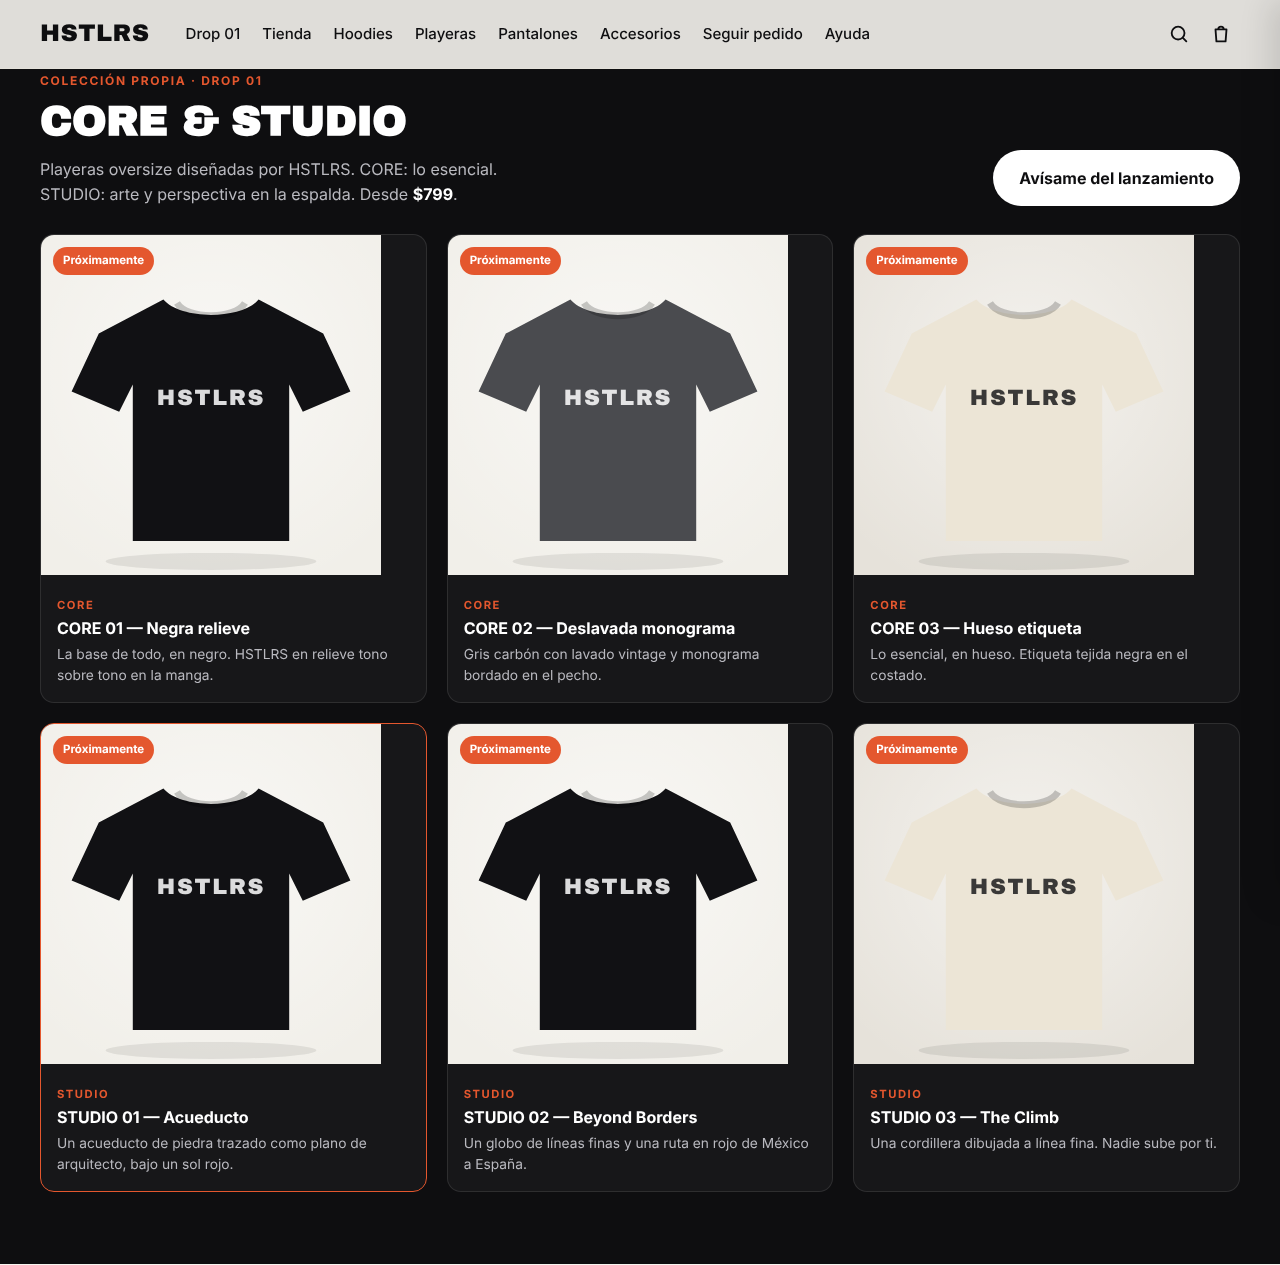
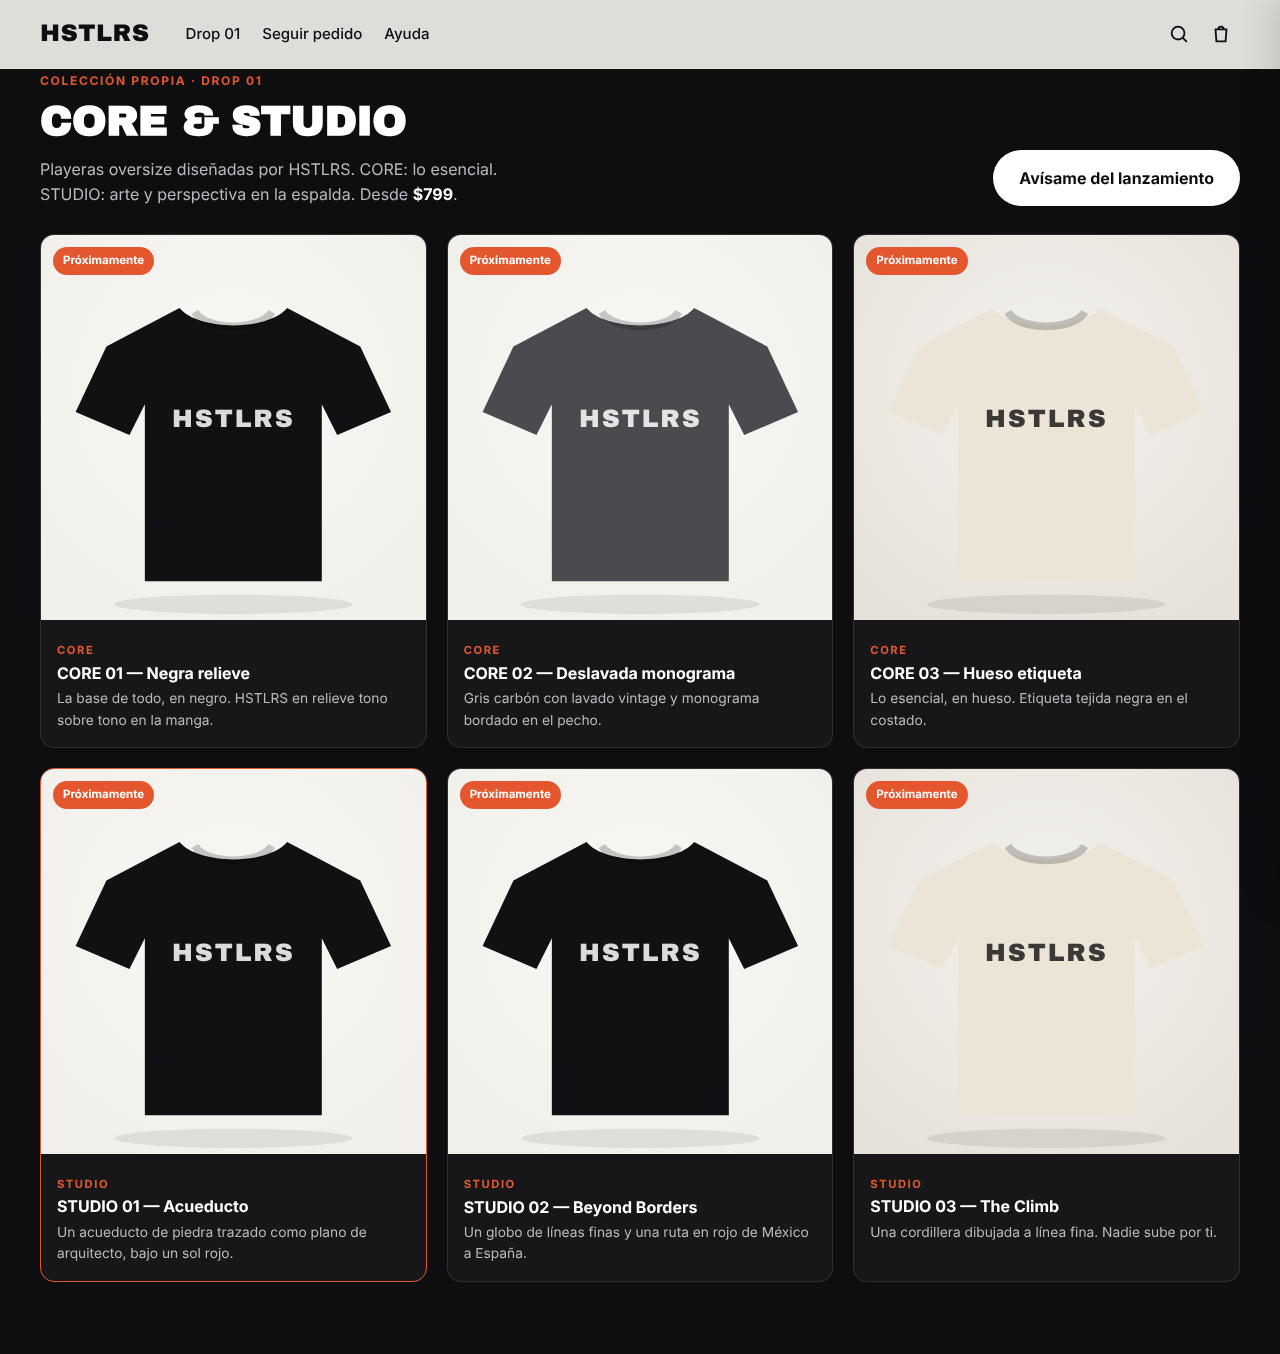
Ajustar la web al estado actual de Shopify
Oculta los productos archivados, usa el Drop 01 como portada, apunta al
dominio hsltrs.myshopify.com y usa el email de contacto de la tienda.

Claude-Session: https://claude.ai/code/session_013DNV1jFrcSM7ktCTz4AAyr

diff --git a/assets/js/products.js b/assets/js/products.js
@@ -16,6 +16,7 @@
 window.PRODUCTS = [
   {
     id: "hoodie-hustle-oversize",
+    archived: true, // Archivado en Shopify el 04/11/2026. Quita esta línea si lo reactivas.
     name: "Hoodie Hustle Oversize",
     category: "hoodies",
     price: 899,
@@ -48,6 +49,7 @@ window.PRODUCTS = [
   },
   {
     id: "hoodie-zip-grind",
+    archived: true, // Archivado en Shopify el 04/11/2026. Quita esta línea si lo reactivas.
     name: "Hoodie Zip Grind",
     category: "hoodies",
     price: 999,
@@ -73,6 +75,7 @@ window.PRODUCTS = [
   },
   {
     id: "tee-basic-heavy",
+    archived: true, // Archivado en Shopify el 04/11/2026. Quita esta línea si lo reactivas.
     name: "Camiseta Heavy Basic",
     category: "camisetas",
     price: 449,
@@ -107,6 +110,7 @@ window.PRODUCTS = [
   },
   {
     id: "tee-no-days-off",
+    archived: true, // Archivado en Shopify el 04/11/2026. Quita esta línea si lo reactivas.
     name: "Camiseta No Days Off",
     category: "camisetas",
     price: 529,
@@ -131,6 +135,7 @@ window.PRODUCTS = [
   },
   {
     id: "tee-longsleeve-core",
+    archived: true, // Archivado en Shopify el 04/11/2026. Quita esta línea si lo reactivas.
     name: "Manga Larga Core",
     category: "camisetas",
     price: 599,
@@ -155,6 +160,7 @@ window.PRODUCTS = [
   },
   {
     id: "pants-cargo-urban",
+    archived: true, // Archivado en Shopify el 04/11/2026. Quita esta línea si lo reactivas.
     name: "Cargo Urban",
     category: "pantalones",
     price: 1099,
@@ -180,6 +186,7 @@ window.PRODUCTS = [
   },
   {
     id: "pants-jogger-fleece",
+    archived: true, // Archivado en Shopify el 04/11/2026. Quita esta línea si lo reactivas.
     name: "Jogger Fleece",
     category: "pantalones",
     price: 799,
@@ -210,6 +217,7 @@ window.PRODUCTS = [
   },
   {
     id: "cap-dad-logo",
+    archived: true, // Archivado en Shopify el 04/11/2026. Quita esta línea si lo reactivas.
     name: "Gorra Dad Logo",
     category: "accesorios",
     price: 399,
@@ -229,6 +237,7 @@ window.PRODUCTS = [
   },
   {
     id: "beanie-rib",
+    archived: true, // Archivado en Shopify el 04/11/2026. Quita esta línea si lo reactivas.
     name: "Gorro Rib Knit",
     category: "accesorios",
     price: 339,
@@ -248,6 +257,7 @@ window.PRODUCTS = [
   },
   {
     id: "bag-crossbody",
+    archived: true, // Archivado en Shopify el 04/11/2026. Quita esta línea si lo reactivas.
     name: "Bandolera Hustle",
     category: "accesorios",
     price: 499,
@@ -266,6 +276,7 @@ window.PRODUCTS = [
   },
   {
     id: "socks-pack",
+    archived: true, // Archivado en Shopify el 04/11/2026. Quita esta línea si lo reactivas.
     name: "Pack 3 Calcetines",
     category: "accesorios",
     price: 299,

diff --git a/assets/js/app.js b/assets/js/app.js
@@ -2,7 +2,8 @@
   "use strict";
 
   const CFG = window.STORE_CONFIG;
-  const PRODUCTS = window.PRODUCTS;
+  // Solo se muestran los productos activos (los archivados en Shopify no se pueden comprar).
+  const PRODUCTS = window.PRODUCTS.filter((p) => !p.archived);
   const CART_KEY = "hstlrs_cart_v1";
   const COUPON_KEY = "hstlrs_coupon_v1";
 
@@ -112,6 +113,23 @@
     const b = PRODUCTS.find((p) => p.shape === "pants");
     if (a) $("[data-hero-a]").innerHTML = productArt(a, 1);
     if (b) $("[data-hero-b]").innerHTML = productArt(b, 0);
+
+    // Sin catálogo a la venta: la portada lleva al Drop 01.
+    if (!PRODUCTS.length) {
+      const up = window.UPCOMING || [];
+      const tee = (u) => productArt({ id: u.id, name: u.name, shape: "tee", image: u.image, colors: [u.color] });
+      const ua = up.find((u) => u.featured) || up[0];
+      const ub = ua && (up.find((u) => u.color.hex !== ua.color.hex) || up[1]);
+      if (ua) $("[data-hero-a]").innerHTML = tee(ua);
+      if (ub) $("[data-hero-b]").innerHTML = tee(ub);
+      $$(".hero__badge").forEach((el) => (el.hidden = true));
+      const cta = $(".hero__cta .btn--primary");
+      cta.href = "#drop-01";
+      cta.textContent = "Ver el Drop 01";
+      $("#tienda").hidden = true;
+      $$("[data-filter-link]").forEach((el) => (el.hidden = true));
+      $$('a[href="#tienda"]').forEach((el) => (el.href = "#drop-01"));
+    }
   }
 
   /* ---------- Catálogo ---------- */

diff --git a/assets/css/styles.css b/assets/css/styles.css
@@ -113,9 +113,7 @@ h2 { font-family: var(--display); font-size: clamp(1.8rem, 4vw, 2.6rem); letter-
 .drop { background: var(--ink); color: #fff; padding: 72px 0; }
 .drop__lead { color: #b9b9bf; max-width: 52ch; margin: 12px 0 0; }
 .drop__lead strong { color: #fff; }
-.drop__grid { display: grid; grid-template-columns: repeat(3, 1fr); gap: 20px; }
-.drop-card__media { max-height: 340px; }
-.drop-card { background: rgba(255,255,255,.04); border: 1px solid rgba(255,255,255,.1); border-radius: var(--radius); overflow: hidden; }
+.drop__grid { display: grid; grid-template-columns: repeat(3, 1fr); gap: 20px; }.drop-card { background: rgba(255,255,255,.04); border: 1px solid rgba(255,255,255,.1); border-radius: var(--radius); overflow: hidden; }
 .drop-card--featured { border-color: var(--accent); }
 .drop-card__media { position: relative; aspect-ratio: 1; }
 .drop-card__media svg, .drop-card__media img { width: 100%; height: 100%; object-fit: cover; }

diff --git a/assets/js/config.js b/assets/js/config.js
@@ -6,7 +6,7 @@ window.STORE_CONFIG = {
   name: "HSTLRS",
   currency: "MXN",            // Debe coincidir con la moneda de tu tienda Shopify
   locale: "es-MX",
-  contactEmail: "hola@hstlrs.com",
+  contactEmail: "fragaaitss@icloud.com",
   whatsapp: "520000000000",  // Tu WhatsApp: 52 + 10 dígitos. Mientras sea 52000... el botón flotante no aparece
 
   shipping: {
@@ -31,5 +31,5 @@ window.STORE_CONFIG = {
    *                el campo shopifyVariants de cada producto en products.js).
    */
   checkoutMode: "shopify",
-  shopifyDomain: "0n1xxz-jc.myshopify.com",
+  shopifyDomain: "hsltrs.myshopify.com",
 };

diff --git a/README.md b/README.md
@@ -8,7 +8,7 @@ Tienda online de ropa streetwear preparada para **dropshipping**. Web estática 
 - Ficha de producto con colores, tallas, guía de tallas y fecha de entrega estimada
 - Carrito persistente (se guarda en el navegador) con barra de envío gratis
 - Códigos de descuento (`HSTLR10`)
-- Pago con el checkout de Shopify (tienda `0n1xxz-jc.myshopify.com`, en MXN); alternativa por WhatsApp o email
+- Pago con el checkout de Shopify (tienda `hsltrs.myshopify.com`, en MXN); alternativa por WhatsApp o email
 - Seguimiento de pedidos (vía 17TRACK), FAQ de envíos y devoluciones, textos legales
 - Newsletter con código de bienvenida y diseño adaptado a móvil
 
@@ -42,18 +42,16 @@ Ajusta los plazos de `shipping` en `config.js` a los reales de tu proveedor y re
 
 Abre `index.html` en el navegador, o ejecuta `python3 -m http.server` y entra en http://localhost:8000.
 
-## Estado de la tienda en Shopify (`0n1xxz-jc.myshopify.com`)
+## Estado de la tienda en Shopify (`hsltrs.myshopify.com`)
 
-Ya configurado:
-- 11 productos activos con fotos por color, precios en MXN y precio anterior tachado
-- Colecciones automáticas: Hoodies, Camisetas, Pantalones, Accesorios
-- Cupón `HSTLR10` (10 %, todos los clientes, sin caducidad)
-- Envíos (los que trae la tienda): estándar $150, gratis desde $1,050, exprés $195, internacional $360
+Revisión del 04/11/2026:
+- ✅ Plan Basic contratado, tienda abierta (sin contraseña), Shop Pay / Apple Pay / Google Pay disponibles
+- ✅ Cupón `HSTLR10` (10 %, todos los clientes, sin caducidad)
+- ✅ Envíos: estándar $150, gratis desde $1,050, exprés $195, internacional $360
+- ℹ Los 11 productos de ejemplo están **archivados**: la web los oculta (`archived: true` en `products.js`) y muestra el Drop 01 como portada.
 
-Pendiente en el panel de Shopify (no se puede hacer desde la web):
-1. **Contratar un plan** (la tienda está en prueba y no puede cobrar).
-2. **Pagos** → Configuración → Pagos: activar Shopify Payments (RFC, CLABE y datos fiscales) y, si quieres, PayPal y pagos en efectivo (OXXO) con un proveedor como Mercado Pago o Conekta.
-3. **Políticas** → pegar los textos de [`docs/politicas-shopify.md`](docs/politicas-shopify.md).
-4. **Quitar la contraseña** de la tienda online al lanzar (Tienda online → Preferencias).
-5. **Proveedor**: instalar DSers, CJ Dropshipping o Printful y vincular cada producto.
-6. Cambiar en `assets/js/config.js` el email y el WhatsApp reales.
+Pendiente:
+1. **Drop 01**: las 6 playeras siguen en borrador, sin fotos y con stock 0. Sube fotos, confirma precio y stock y actívalas (ver sección "Drop 01").
+2. **Políticas** → solo existe la de privacidad. Pega reembolso, envío y términos de [`docs/politicas-shopify.md`](docs/politicas-shopify.md).
+3. **WhatsApp**: pon tu número en `assets/js/config.js` para que aparezca el botón.
+4. **Proveedor**: instala la app de tu proveedor (DSers, CJ Dropshipping, Printful…) y vincula cada playera.

diff --git a/docs/politicas-shopify.md b/docs/politicas-shopify.md
@@ -16,7 +16,7 @@ Tienes **30 días naturales** desde que recibes tu pedido para solicitar una dev
 - Debes incluir tu número de pedido.
 
 **Cómo solicitarla**
-Escríbenos a hola@hstlrs.com ✏ con tu número de pedido y el motivo. Te responderemos en un máximo de 48 horas con la dirección y las instrucciones de devolución.
+Escríbenos a fragaaitss@icloud.com con tu número de pedido y el motivo. Te responderemos en un máximo de 48 horas con la dirección y las instrucciones de devolución.
 
 **Productos defectuosos o incorrectos**
 Si recibes un producto dañado, defectuoso o diferente al que pediste, avísanos en los primeros 7 días con fotos del producto. Te enviaremos uno nuevo o te devolveremos el importe íntegro sin costo para ti.
@@ -61,7 +61,7 @@ Los plazos de entrega y las condiciones de devolución se describen en nuestra P
 Estos términos no limitan los derechos que te otorga la Ley Federal de Protección al Consumidor.
 
 **Contacto**
-hola@hstlrs.com ✏
+fragaaitss@icloud.com
 
 ---
 
